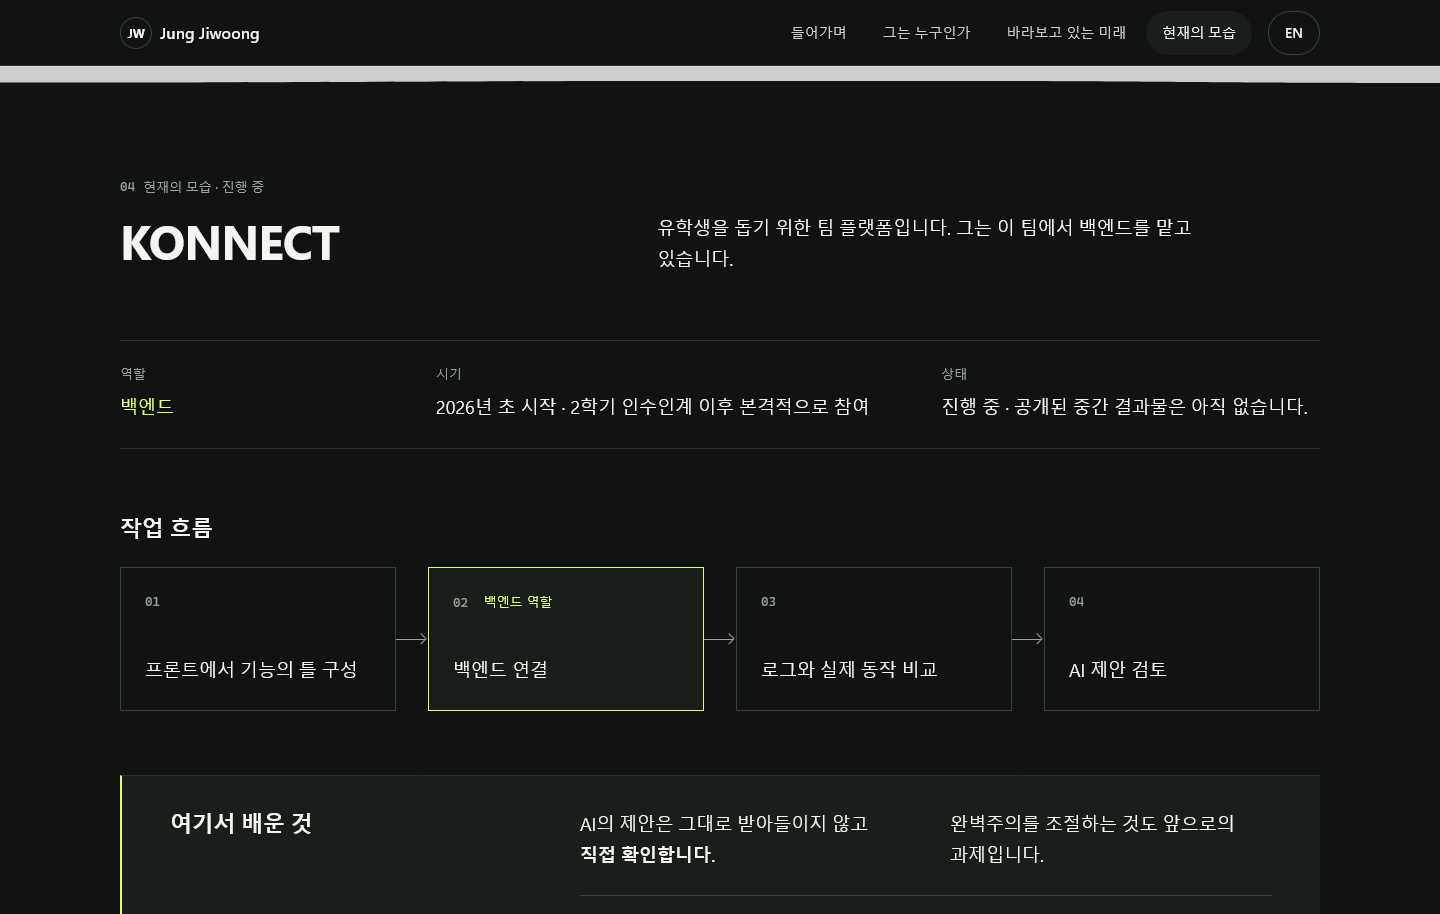
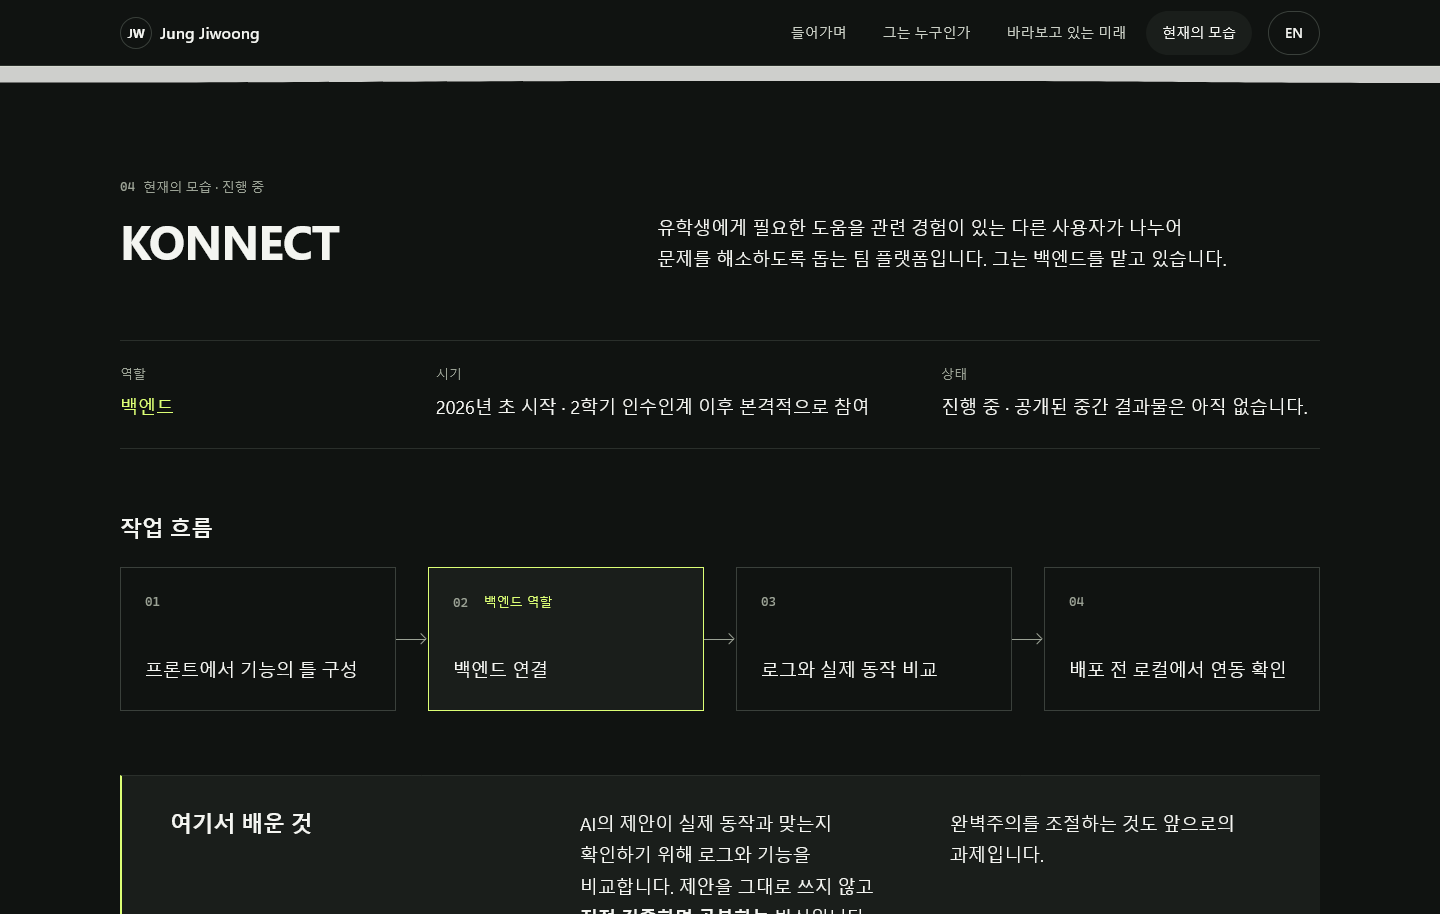
docs(T08,T09/I016,I017): preserve public verification and traceable report evidence

Changed region(s): [[0.4375, 0.2451, 0.8438, 0.3063], [0.4062, 0.8884, 0.5938, 1.0], [0.75, 0.7046, 0.875, 0.7352]]

diff --git a/scripts/render_records.py b/scripts/render_records.py
@@ -160,6 +160,8 @@ def submission(release_path, identity_path):
             ]))
             blocks.extend([table, Spacer(1, 4*mm)])
         for relative, caption in section.get('image', []):
+            captured_at = capture.get('screenshots', {}).get(relative, {}).get('captured_at', tokens['SCREEN_TIME'])
+            caption = caption.replace('{SCREEN_TIME}', captured_at)
             for key, value in tokens.items():
                 caption = caption.replace('{' + key + '}', value)
             path = ROOT / relative

diff --git a/docs/verification.md b/docs/verification.md
@@ -1,5 +1,15 @@
 # 실제 기능 검증
 
+## 채점 위험 수정·공개 검증 — 2026-11-05 KST
+
+I016: 404 메뉴의 fragment-only 경로가 오류 문서에 머무는 현상을 먼저 기록하고, 기존 배포 경로 보정으로 해당 언어의 홈 앵커에 복구하도록 수정했다. 홈·404 네 문서 정적 오류0, 로컬 Firefox81개와 공개82개를 통과했다. 공개 검사는 1440·390px 두 언어의 메뉴/로고 복구와 실제 없는 주소 복구를 포함한다. 근거: `evidence/T08/firefox/results.json`과 error-…-about.png.
+
+P75·P77: 사용자의 추가 답변과 지정한 비공개 KONNECT 소스·기존 검증 문서의 읽기 대조로 목적, NestJS 도움 API의 입력·권한 점검, 로컬 DB·HTTP 확인 후 배포하는 이유를 정리했다. 최종 문구를 공개한 e4f99ab에서 한국어·영어 1440·390px 4개 추가 검사가 통과했다. 실제 텍스트·뷰포트·가로 넘침·잘림을 확인했고 두 모바일 전체 화면의 마지막 문단을 시각 검토했다. 최초 집중 검사의 문서 이동 완료 대기가 부족해 영어 확인에 직전 한국어 문서를 읽었으며, 실제 언어·URL 완료 대기 후 재검사했다. 제품 언어 코드는 바꾸지 않았다.
+
+합계 브라우저86개와 점진적 향상17개 모두 통과. 기능 검사82개·모션17개는 ae55ecc, 마지막 문구4개는 e4f99ab에서 실행했다. 그 사이 프론트 변경은 작업 방식 문단 하나이며 CSS·JS는 동일하다. 검사 묶음의 SHA·시각을 JSON에 보존했다. 마지막 증거/보고서 문서 커밋은 화면 코드를 바꾸지 않으며 공개 HTML과 빌드 결과를 대조한다. 실제 iPhone/Safari와 KONNECT 서버 실행은 이번에 검사하지 않았다.
+
+I017: 검증 JSON·화면을 기존 추적 경로에 보존하고, PDF 검증표 E1~E4·그림1~3에 제출 SHA의 클릭 가능한 상대 경로를 연결했다. PDF의 최종 SHA·페이지·링크·본문은 최종 내보내기에서 확인한다.
+
 ## 투명도와 유동적인 추종 움직임 — 2026-11-04 KST
 
 사용자가 효과를 켜니 보인다고 확인하고 자연스러움·불투명도를 요청했다. 기존 CSS·JS만 수정해 전체 패널의 0.88→1 불투명도, 넓은 곡선, 짧은 추종 움직임과 900ms 글 등장을 적용했다. PC 24→8.97→1.94→0px·모바일 14→8.68→1.64→0px로 실제 좌표가 가라앉았다. 반대 스크롤은 음수에서 0으로 복원됐다. 전환 중 opacity=0.946, 정지 후 400ms 프레임 예약 0이었다.

diff --git a/docs/tasks/T09.md b/docs/tasks/T09.md
@@ -4,6 +4,8 @@
 
 ## 검증 근거의 저장소 연결 — 2026-11-05 KST
 
+공개 기능82개·마지막 소개 문구4개와 점진적 향상17개를 실제 확인해 같은 근거 경로에 보존했다. 그림별 파일 시각을 기록해 캡션에 사용하며 검사 묶음의 SHA도 구분한다. 비공개 KONNECT 코드를 읽어 실제 작업 범주를 보완했으나 공개 산출물 증빙이나 이번 실행 검증으로 대신하지 않는다.
+
 보고서의 로컬 submission 경로·불완전한 파일명을 I017에 기록했다. 본문 검증표는 E1~E4로 실제 추적 파일을 연결하고, 링크는 제출 SHA에 고정한다. 그림 1~3도 기존 docs/evidence/T08/firefox 파일을 이용하며 정확한 상대 경로를 표시하고 클릭할 수 있게 한다. 검사 개수와 캡처 시각은 추적되는 JSON에서 읽는다. 공개 검증 후 그 실제 결과를 같은 경로에 보존한다. 학생 정보와 최종 PDF는 계속 로컬에 둔다.
 
 ## 요구사항과 선택
@@ -20,4 +22,4 @@ README의 실제 실행·재배포 안내, `docs/sources.md`, `docs/ai/`, TASK·
 
 ## 한계와 제출
 
-학습 다음 행동·도구별 구체적 적용·KONNECT 실제 결과 증빙의 공백은 보고서에 명시한다. 최종 SHA는 마지막 문서 커밋 후 로컬 내보내기에서 확정하며 자기 SHA를 넣기 위한 amend를 반복하지 않는다. PDF 시각 검수와 링크·검색 검사를 마친 뒤 사용자에게 전달한다. LMS 제출은 사용자가 완료해야 한다.
+학습 다음 행동·KONNECT 공개 결과 증빙의 공백은 보고서에 명시한다. 최종 SHA는 마지막 문서 커밋 후 로컬 내보내기에서 확정하며 자기 SHA를 넣기 위한 amend를 반복하지 않는다. PDF 시각 검수와 링크·검색 검사를 마친 뒤 사용자에게 전달한다. LMS 제출은 사용자가 완료해야 한다.

diff --git a/docs/issues/I017.md b/docs/issues/I017.md
@@ -1,6 +1,8 @@
 # I017 — 보고서의 검증 근거 일부가 공개 저장소 경로로 연결되지 않음
 
-상태: 원문·생성기 수정, 최종 공개 증거·PDF 검증 대기. 2026-11-05 KST. 수정 전 기록: `ab773f1`.
+상태: 원문·생성기·공개 근거 수정 완료. 최종 PDF는 로컬 제출 내보내기에서 생성·검수한다. 2026-11-05 KST. 수정 전 기록: `ab773f1`.
+
+공개 브라우저 82개와 최종 소개 문구 4개(합계 86), 점진적 향상 17개 결과와 실제 PNG를 기존 추적 경로에 보존했다. 각 검사 묶음의 실행 소스 SHA와 그림별 실제 파일 생성 시각을 구분해 기록한다. 보고서 캡션은 해당 그림의 시각을 읽고, 새 근거의 상대 경로·링크·그림 번호를 유지한다. 마지막 문서 커밋 후 release 수집과 PDF 렌더링으로 제출 SHA·Actions를 확정한다.
 
 최종 보고서 5~6쪽은 `submission/screens/results.json`, ‘Firefox 결과 JSON’, `keyboard-focus.png` 같은 경로 또는 파일명을 근거로 기재한다. submission은 개인정보 보호를 위해 Git에서 제외되므로 PDF만 받은 채점자가 해당 로그를 열 수 없다. 화면은 PDF에 포함되어 있지만 그림별 저장소 상대 경로도 명시되지 않았다. 보고서의 5영역 관찰 자체는 존재하며, 문제는 근거의 식별·접근성이다.
 

diff --git a/docs/issues/I016.md b/docs/issues/I016.md
@@ -1,6 +1,8 @@
 # I016 — 404 화면의 메뉴가 없는 현재 페이지 앵커를 가리킴
 
-상태: 수정·로컬 재검증 완료. 2026-11-05 KST. 수정 전 기록: `ab773f1`.
+상태: 해결됨·공개 재검증 완료. 2026-11-05 KST. 수정 전 기록: `ab773f1`, 경로 수정: `d842583`.
+
+공개 후속 검증: 1440·390px 두 언어의 메뉴/로고 복구 20개와 실제 없는 공개 주소의 메뉴 복구를 포함한 82개 검사가 통과했다. `../evidence/T08/firefox/results.json`의 error-…-recovers와 missing-route-menu-recovers, error-1440/390-ko/en-about.png에서 목적지·화면을 확인할 수 있다. 이후 소개 문구 전용 4개 검사를 합친 최종 브라우저 근거는 86개다. 아래 배포 전 계획·로컬 기록과 구분한다.
 
 공개 주소 `/website_proj/not-a-real-audit-page/`에서 ‘그는 누구인가’를 누르면 URL만 같은 오류 주소의 `#about`으로 바뀌고 404 화면에 남는다. 해당 문서에는 about 대상이 0개다. 로고로 홈 복귀는 가능하다. 영어 404 출력에도 같은 형태의 fragment-only 메뉴가 있다. 비공개 잘못된 주소 검사와 메뉴 도착 위치에서 감점 위험이 있다.
 
